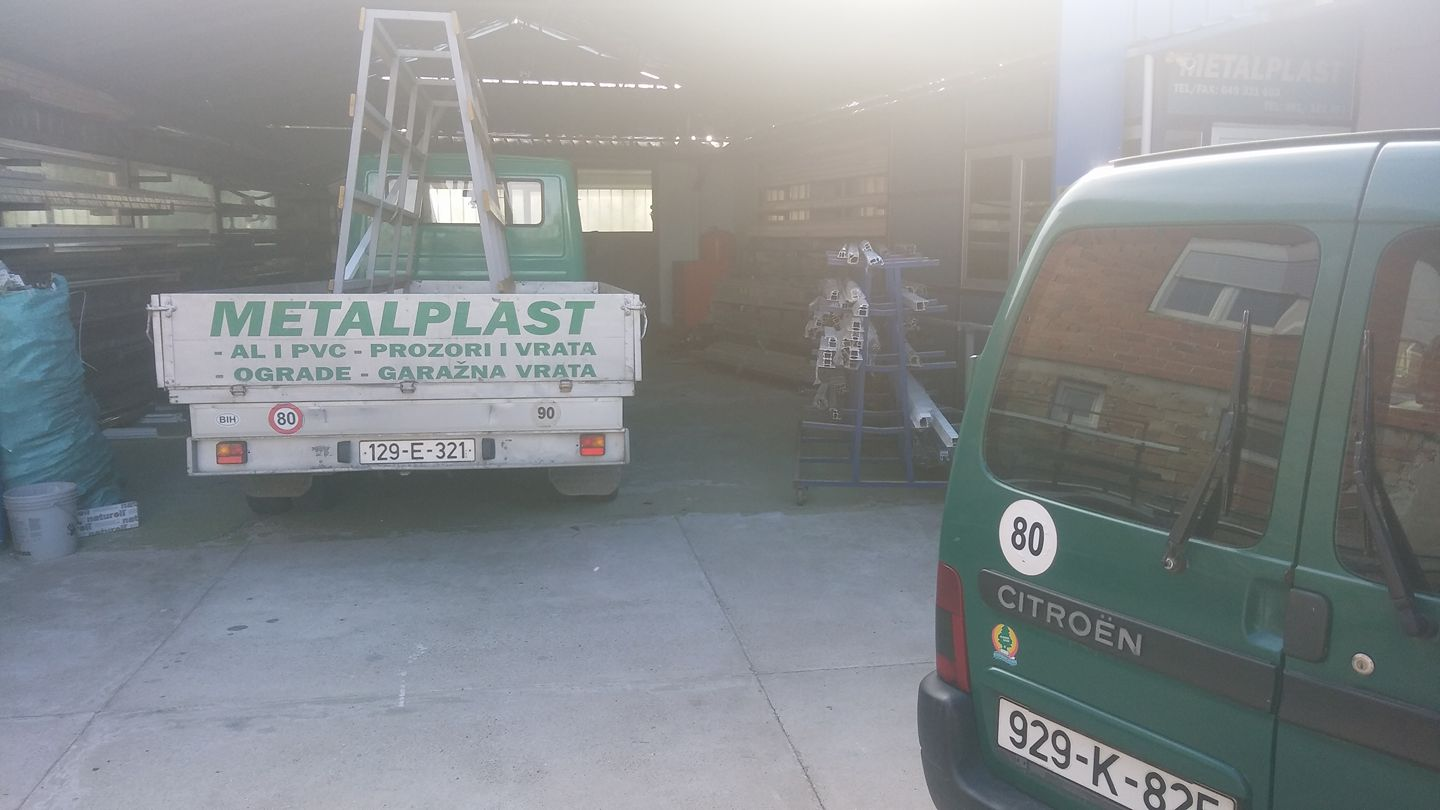
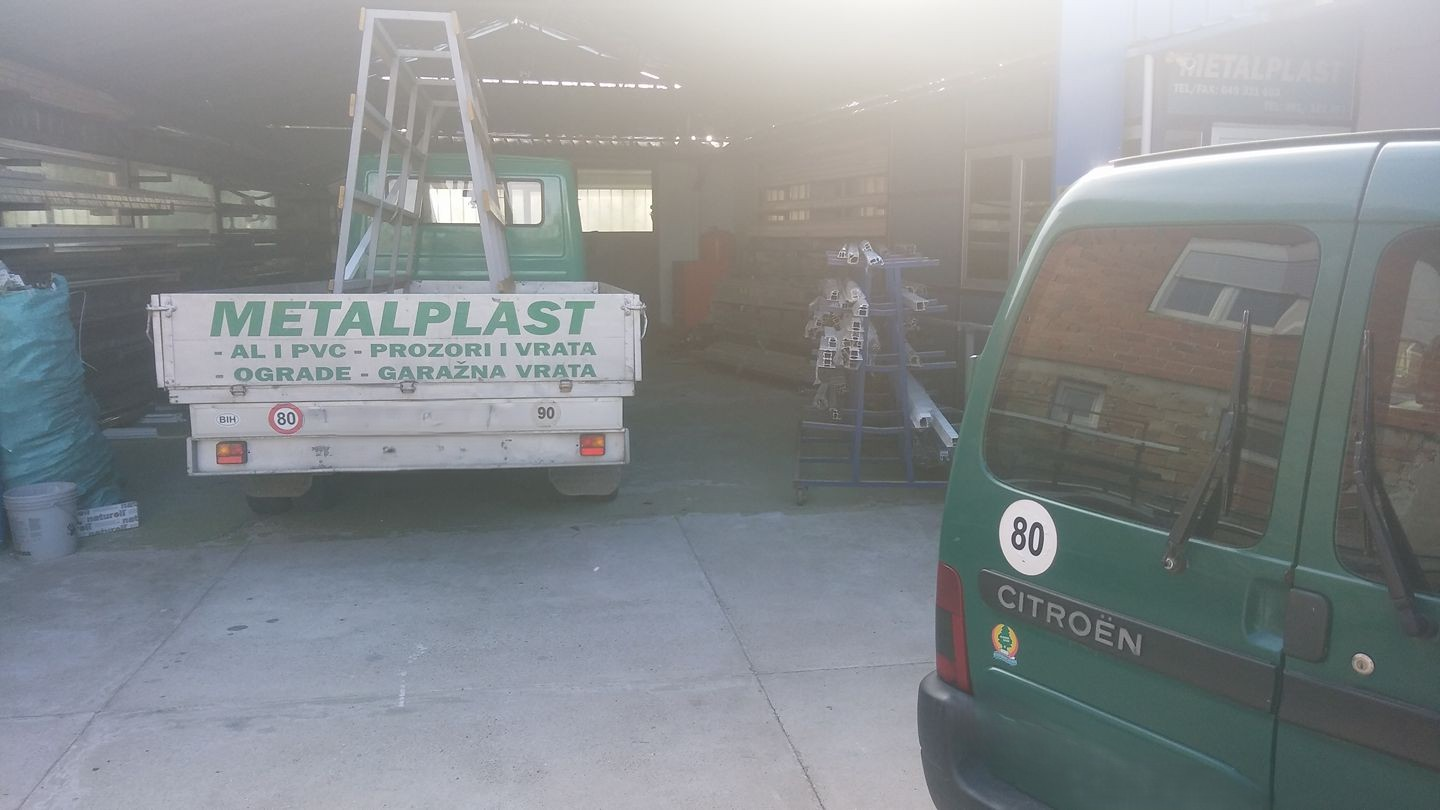
docs: update README with accurate company info and tech stack

Changed region(s): [[0.6875, 0.8642, 0.875, 1.0], [0.2188, 0.5247, 0.3438, 0.5864]]

diff --git a/README.md b/README.md
@@ -1,138 +1,41 @@
-# Metalplast - Next.js Corporate Website
+# Metalplast
 
-A modern, responsive corporate website for Metalplast - a leading plastic manufacturing company.
+Website for **Metalplast** — manufacturer and installer of PVC and aluminum windows, doors, and fences. Located in Brčko, Bosnia and Herzegovina, with over 20 years of experience.
 
-## Features
-
-- **Responsive Design**: Built with Tailwind CSS for a mobile-first approach
-- **Multiple Pages**: Home, About, Products, Services, and Contact pages
-- **Modern UI**: Clean and professional interface with smooth transitions
-- **TypeScript**: Fully typed with TypeScript for better code quality
-- **Next.js App Router**: Latest Next.js features with App Router
-- **SEO Optimized**: Structured for better search engine visibility
+**Address:** Suljagića Sokak 17, Brčko, BiH 76100  
+**Phone:** +387 61 152 357  
+**Email:** info@metalplast.ba
 
 ## Tech Stack
 
-- **Framework**: Next.js 15
-- **Language**: TypeScript
-- **Styling**: Tailwind CSS
-- **Linting**: ESLint
-
-## Project Structure
-
-```
-metalplast/
-├── src/
-│   ├── app/
-│   │   ├── layout.tsx
-│   │   ├── page.tsx (Home)
-│   │   ├── about/
-│   │   │   └── page.tsx
-│   │   ├── products/
-│   │   │   └── page.tsx
-│   │   ├── services/
-│   │   │   └── page.tsx
-│   │   └── contact/
-│   │       └── page.tsx
-│   └── components/
-│       ├── Header.tsx
-│       └── Footer.tsx
-├── public/
-├── package.json
-├── tailwind.config.ts
-├── tsconfig.json
-└── next.config.ts
-```
+- **Next.js 15** — App Router, Server Components, Server Actions
+- **TypeScript**
+- **Tailwind CSS**
+- **Framer Motion** — animations
+- **next-intl** — Bosnian / English / German
+- **Resend** — contact form emails
 
 ## Getting Started
 
-### Prerequisites
-
-- Node.js 18+ installed
-- npm or yarn
-
-### Installation
-
 ```bash
 npm install
-```
-
-### Development
-
-First, run the development server:
-
-```bash
 npm run dev
 ```
 
-Open [http://localhost:3000](http://localhost:3000) in your browser to see the result.
+Create `.env.local`:
 
-### Build
-
-```bash
-npm run build
-```
-
-### Production
-
-```bash
-npm run start
+```env
+RESEND_API_KEY=your_resend_api_key
+NEXT_PUBLIC_SITE_URL=https://metalplast.ba
 ```
 
 ## Pages
 
-- **Home** (`/`) - Welcome page with company overview and key features
-- **About** (`/about`) - Company mission, vision, and history
-- **Products** (`/products`) - Showcase of available products
-- **Services** (`/services`) - List of manufacturing services offered
-- **Contact** (`/contact`) - Contact form and business information
-
-## Customization
-
-### Colors
-
-Edit the color scheme in `tailwind.config.ts` and component files. Current theme uses blue as primary color.
-
-### Content
-
-Update the content in individual page files in `src/app/[page]/page.tsx`.
-
-### Components
-
-Modify `Header.tsx` and `Footer.tsx` in `src/components/` to customize navigation and footer sections.
-
-## Deployment
-
-### Deploy on Vercel
-
-The easiest way to deploy is on [Vercel](https://vercel.com/):
-
-1. Push your code to a git repository (GitHub, GitLab, Bitbucket)
-2. Connect your repository to Vercel
-3. Vercel will automatically build and deploy your site
-
-## Performance
-
-- Optimized images using Next.js Image component
-- Code splitting for faster page loads
-- CSS minification with Tailwind CSS production build
-- Built-in performance monitoring
-
-## Browser Support
-
-- Chrome (latest)
-- Firefox (latest)
-- Safari (latest)
-- Edge (latest)
-
-## License
-
-This project is proprietary to Metalplast and all rights are reserved.
-
-## Contact
-
-For more information about Metalplast, visit the contact page or email info@metalplast.com.
-
----
-
-Made with ❤ for Metalplast
+| Page | Route |
+|---|---|
+| Home | `/` |
+| Services | `/services` |
+| Products | `/products` |
+| Gallery | `/gallery` |
+| About | `/about` |
+| Contact | `/contact` |
